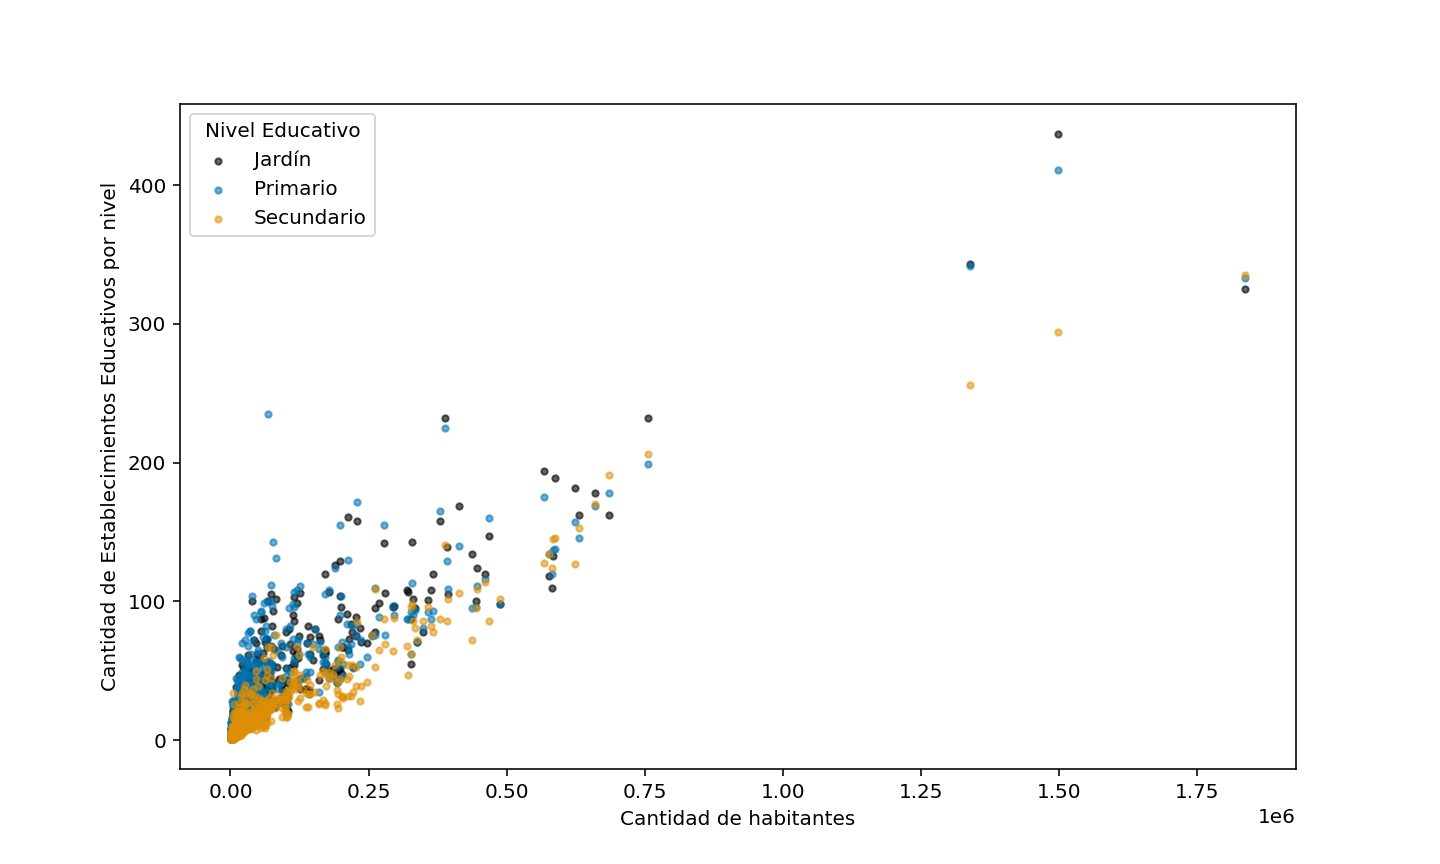
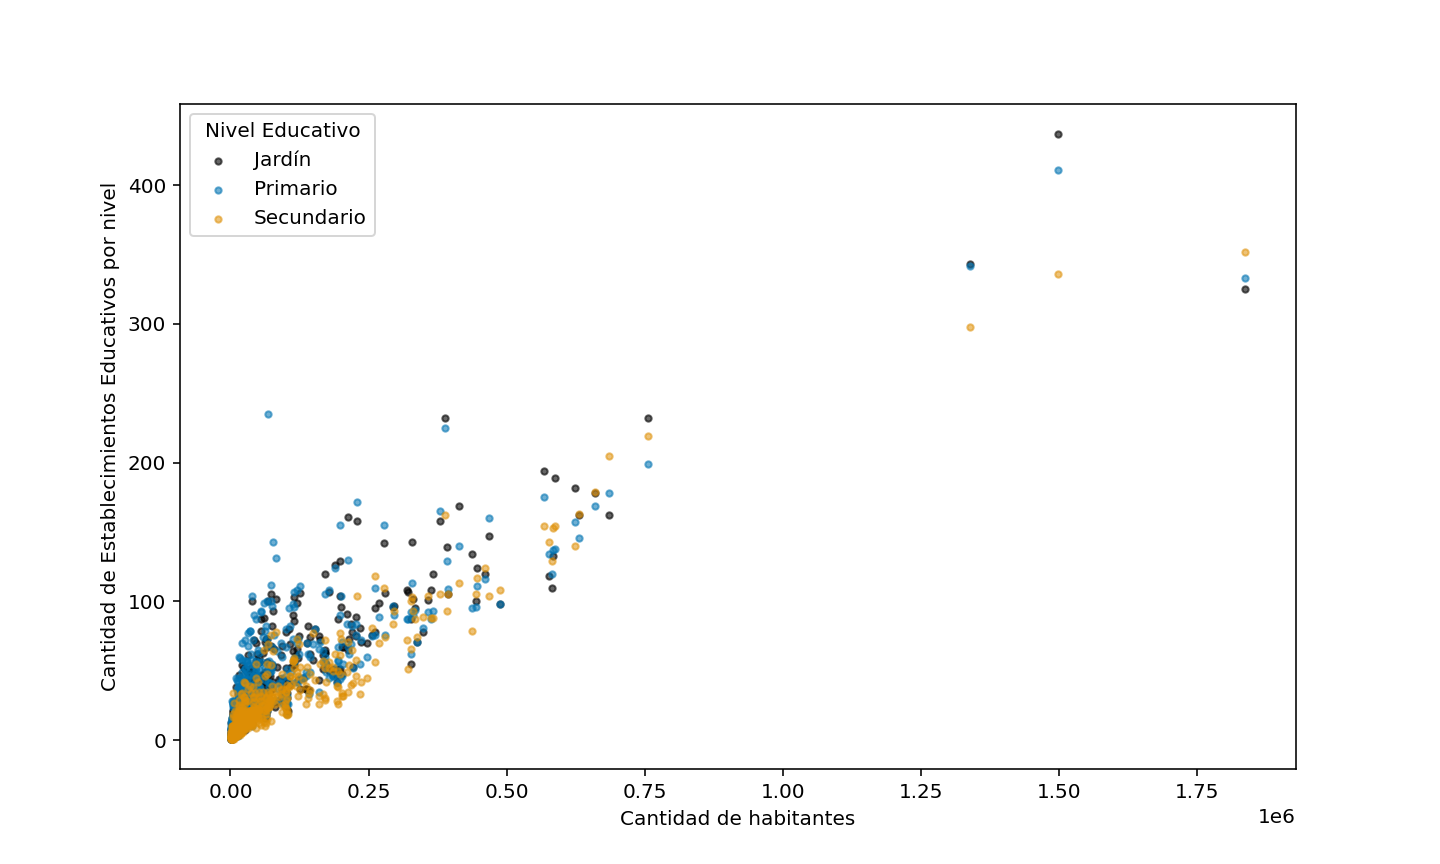
cambios

Changed region(s): [[0.1562, 0.6562, 0.3438, 0.8438], [0.375, 0.5938, 0.4062, 0.6562], [0.4375, 0.5, 0.4688, 0.5312]]

diff --git a/tp1.py b/tp1.py
@@ -704,7 +704,7 @@ cantidad_ee_comunas = dd.sql("""
         d.ID_PROV, d.ID_DEPTO, d.Departamento,
         SUM(CASE WHEN "Nivel inicial - Jardín maternal" = 1 OR "Nivel inicial - Jardín de infantes" = 1 THEN 1 ELSE 0 END) AS Jardines,
         SUM(CASE WHEN "Primario" = 1 THEN 1 ELSE 0 END) AS Primarios,
-        SUM(CASE WHEN "Secundario" = 1 OR "Secundario - INET" = 1 THEN 1 ELSE 0 END) AS Secundarios
+        SUM("Secundario" + "Secundario - INET") AS Secundarios
     FROM comunas_ee AS e
     JOIN comunas_departamentos AS d
     ON e.ID_DEPTO = d.ID_DEPTO
@@ -717,7 +717,7 @@ cantidad_ee_comunas = dd.sql("""
         d.ID_PROV, d.ID_DEPTO, d.Departamento,
         SUM(CASE WHEN "Nivel inicial - Jardín maternal" = 1 OR "Nivel inicial - Jardín de infantes" = 1 THEN 1 ELSE 0 END) AS Jardines,
         SUM(CASE WHEN "Primario" = 1 THEN 1 ELSE 0 END) AS Primarios,
-        SUM(CASE WHEN "Secundario" = 1 OR "Secundario - INET" = 1 THEN 1 ELSE 0 END) AS Secundarios
+        SUM("Secundario" + "Secundario - INET") AS Secundarios
     FROM comunas_ee AS e
     JOIN comunas_departamentos AS d
     ON d.Departamento = e.Departamento
@@ -787,66 +787,6 @@ ax.scatter(
     centros_educativos_por_departamento['total_poblacion'],
     centros_educativos_por_departamento['Secundarios'],
     s=10, color=color_secundario, alpha = 0.54, label="Secundario"
-)
-
-ax.set_xlabel('Cantidad de habitantes', fontsize='medium')  
-ax.set_ylabel('Cantidad de Establecimientos Educativos por nivel', fontsize='medium')  
-ax.legend(title="Nivel Educativo", loc="upper left")
-
-fig.savefig('ii')
-#%% Orden de colores 2
-
-fig, ax = plt.subplots(figsize=(10, 6))
-
-plt.rcParams['font.family'] = 'sans-serif'
-
-
-ax.scatter(
-    centros_educativos_por_departamento['total_poblacion'],
-    centros_educativos_por_departamento['Primarios'],
-    s=10, color="blue", label="Primario"
-)
-
-ax.scatter(
-    centros_educativos_por_departamento['total_poblacion'],
-    centros_educativos_por_departamento['Secundarios'],
-    s=10, color="red", label="Secundario"
-)
-
-ax.scatter(
-    centros_educativos_por_departamento['total_poblacion'],
-    centros_educativos_por_departamento['Jardines'],
-    s=10, color="green", label="Jardín"
-)
-
-
-ax.set_xlabel('Cantidad de habitantes', fontsize='medium')  
-ax.set_ylabel('Cantidad de Establecimientos Educativos por nivel', fontsize='medium')  
-ax.legend(title="Nivel Educativo", loc="upper left")
-
-#%% Orden de colores 3
-
-fig, ax = plt.subplots(figsize=(10, 6))
-
-plt.rcParams['font.family'] = 'sans-serif'
-
-
-ax.scatter(
-    centros_educativos_por_departamento['total_poblacion'],
-    centros_educativos_por_departamento['Secundarios'],
-    s=10, color="red", label="Secundario"
-)
-
-ax.scatter(
-    centros_educativos_por_departamento['total_poblacion'],
-    centros_educativos_por_departamento['Jardines'],
-    s=10, color="green", label="Jardín"
-)
-
-ax.scatter(
-    centros_educativos_por_departamento['total_poblacion'],
-    centros_educativos_por_departamento['Primarios'],
-    s=10, color="blue", label="Primario"
 )
 
 ax.set_xlabel('Cantidad de habitantes', fontsize='medium')  
